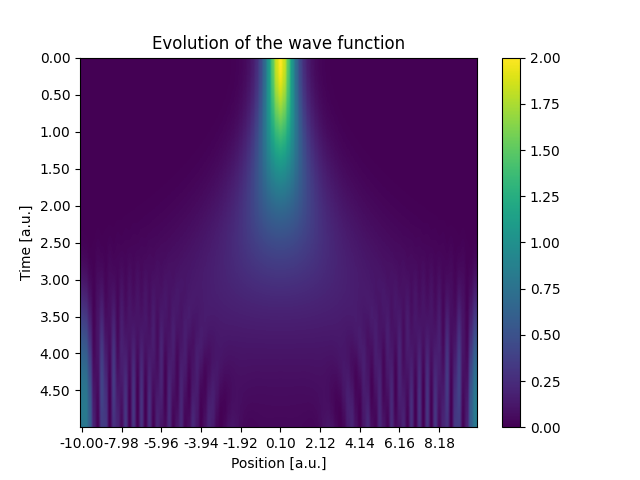
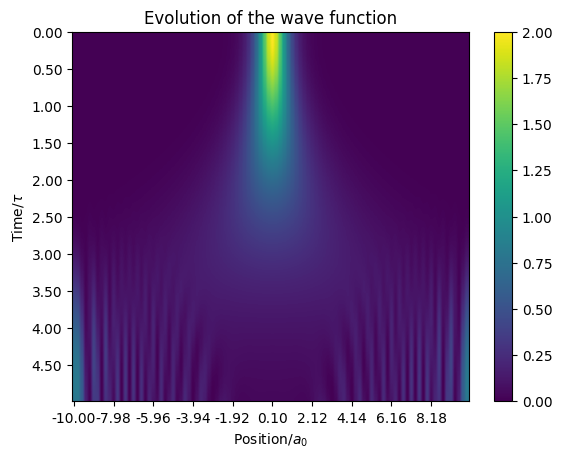
Create Figures file is now a general-use file

Changed region(s): [[0.0, 0.0306, 0.9982, 0.9782]]

diff --git a/createFigures.py b/createFigures.py
@@ -1,15 +1,23 @@
 # %%
 import json
 import os
+import sys
 
 import matplotlib.pyplot as plt
 import numpy as np
 
+fpath = os.path.join(os.path.dirname(__file__), "projects", "simulations", "invertedHarmonic", "fixedOnTopUnbreaking")
+
+
+def path(*args):
+    return os.path.join(fpath, *args)
+
+
 # Load the solution
-psi = np.load("evolution.npy")[:400]
+psi = np.load(path("evolution.npy"))
 
 # %%
-with open("metadata.json", "r") as f:
+with open(path("metadata.json"), "r") as f:
     metadata = json.load(f)
 constants = metadata["constants"]
 
@@ -20,8 +28,6 @@ I = np.arange(psi.shape[1])
 J = np.arange(psi.shape[0])
 T = np.linspace(constants["tMin"], constants["tMax"], psi.shape[0])
 X = np.linspace(constants["xMin"], constants["xMax"], psi.shape[1])
-
-imgFolder = "report_images"
 
 # %%
 
@@ -51,3 +57,12 @@ plt.title("Evolution of the wave function")
 plt.colorbar()
 
 # %%
+fig, ax = plt.subplots(1, 3, figsize=(15, 5), sharey=True, sharex=True)
+
+
+for plot, j in enumerate([0, 250, 500]):
+    # Plot the evolution
+    ax[plot].plot(X, np.abs(psi[j]) ** 2)
+    ax[plot].set_xlabel("Position/$a_0$")
+    ax[plot].set_ylabel(r"Probability Density ($|\tilde{\psi}|^2$)")
+    ax[plot].set_title("$\\frac{{t}}{\\tau}=%.2f$" % (T[j]))
